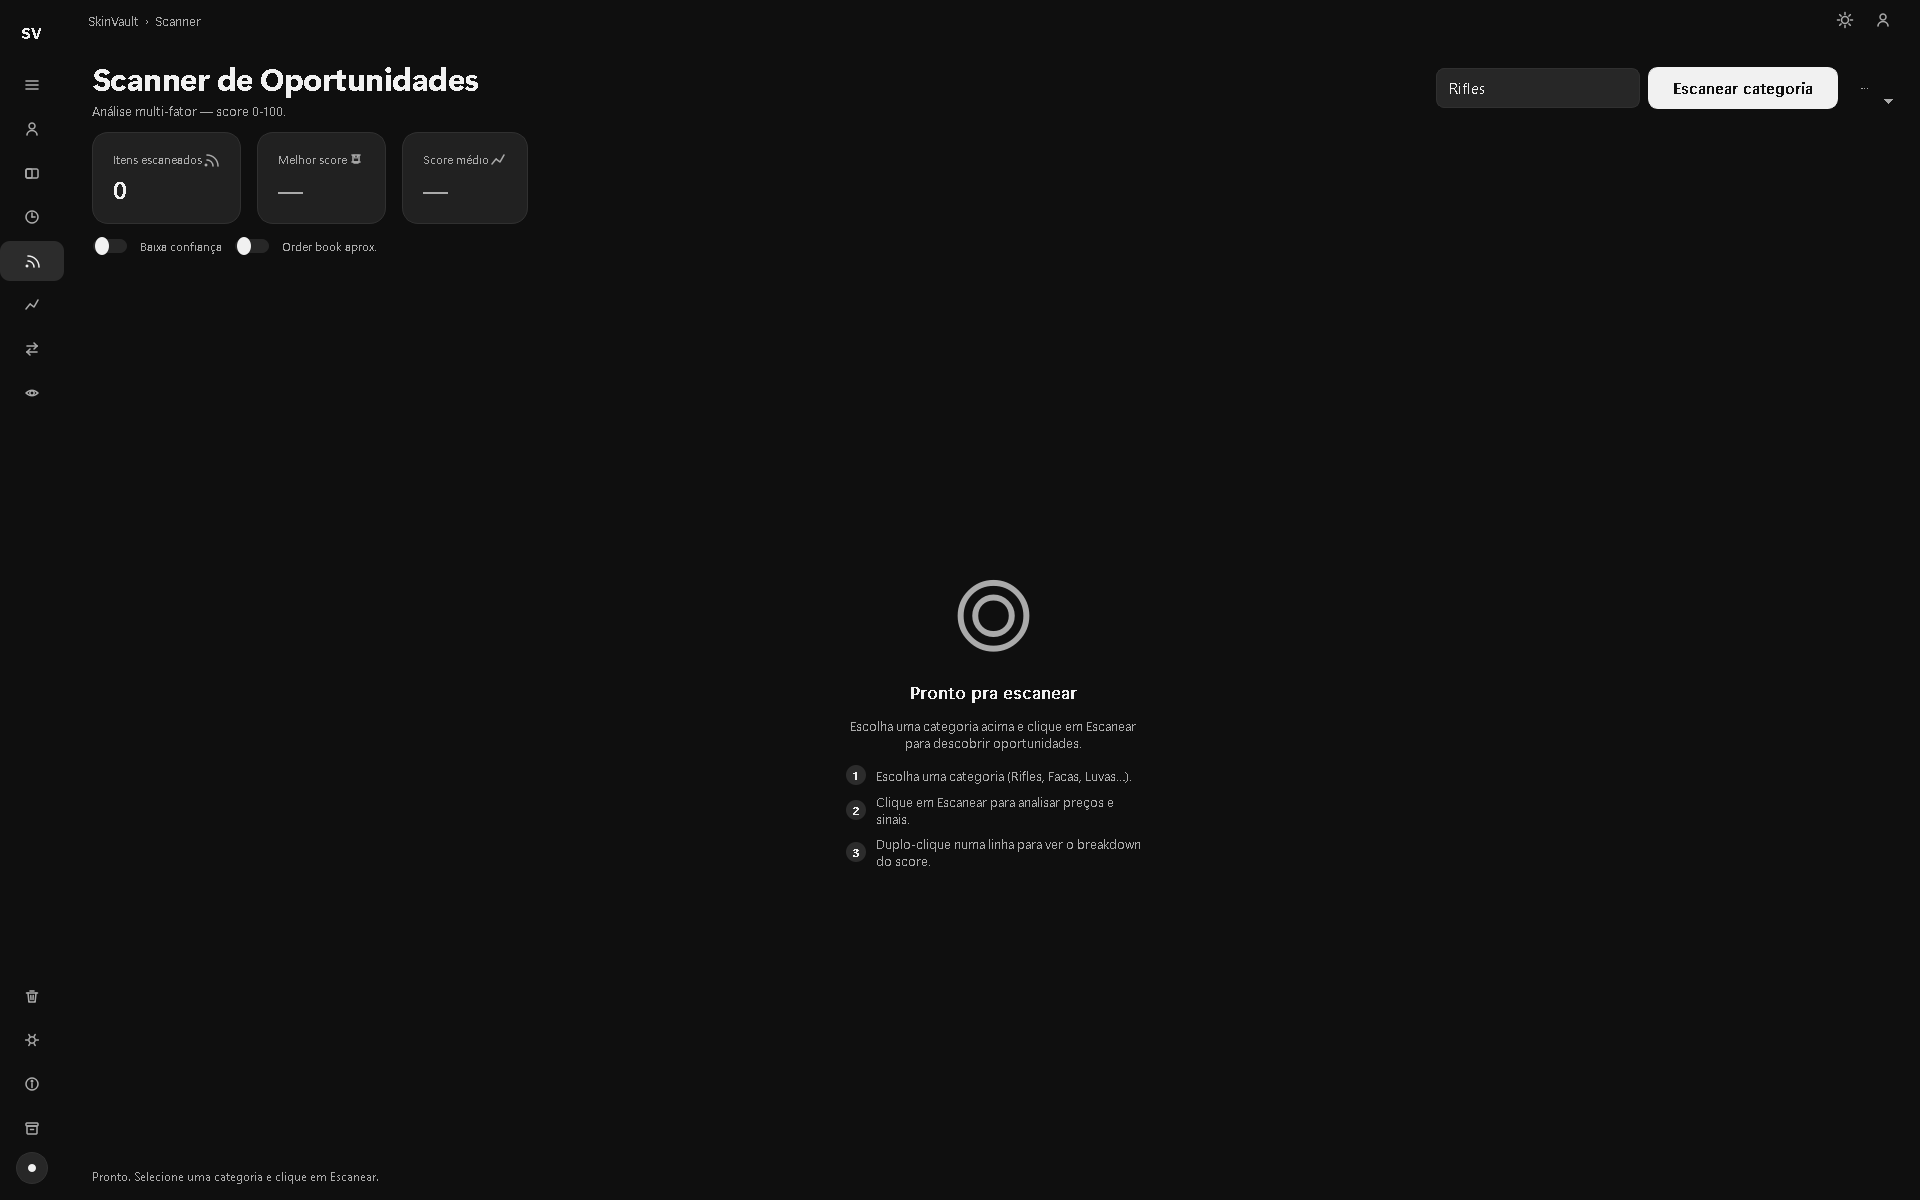
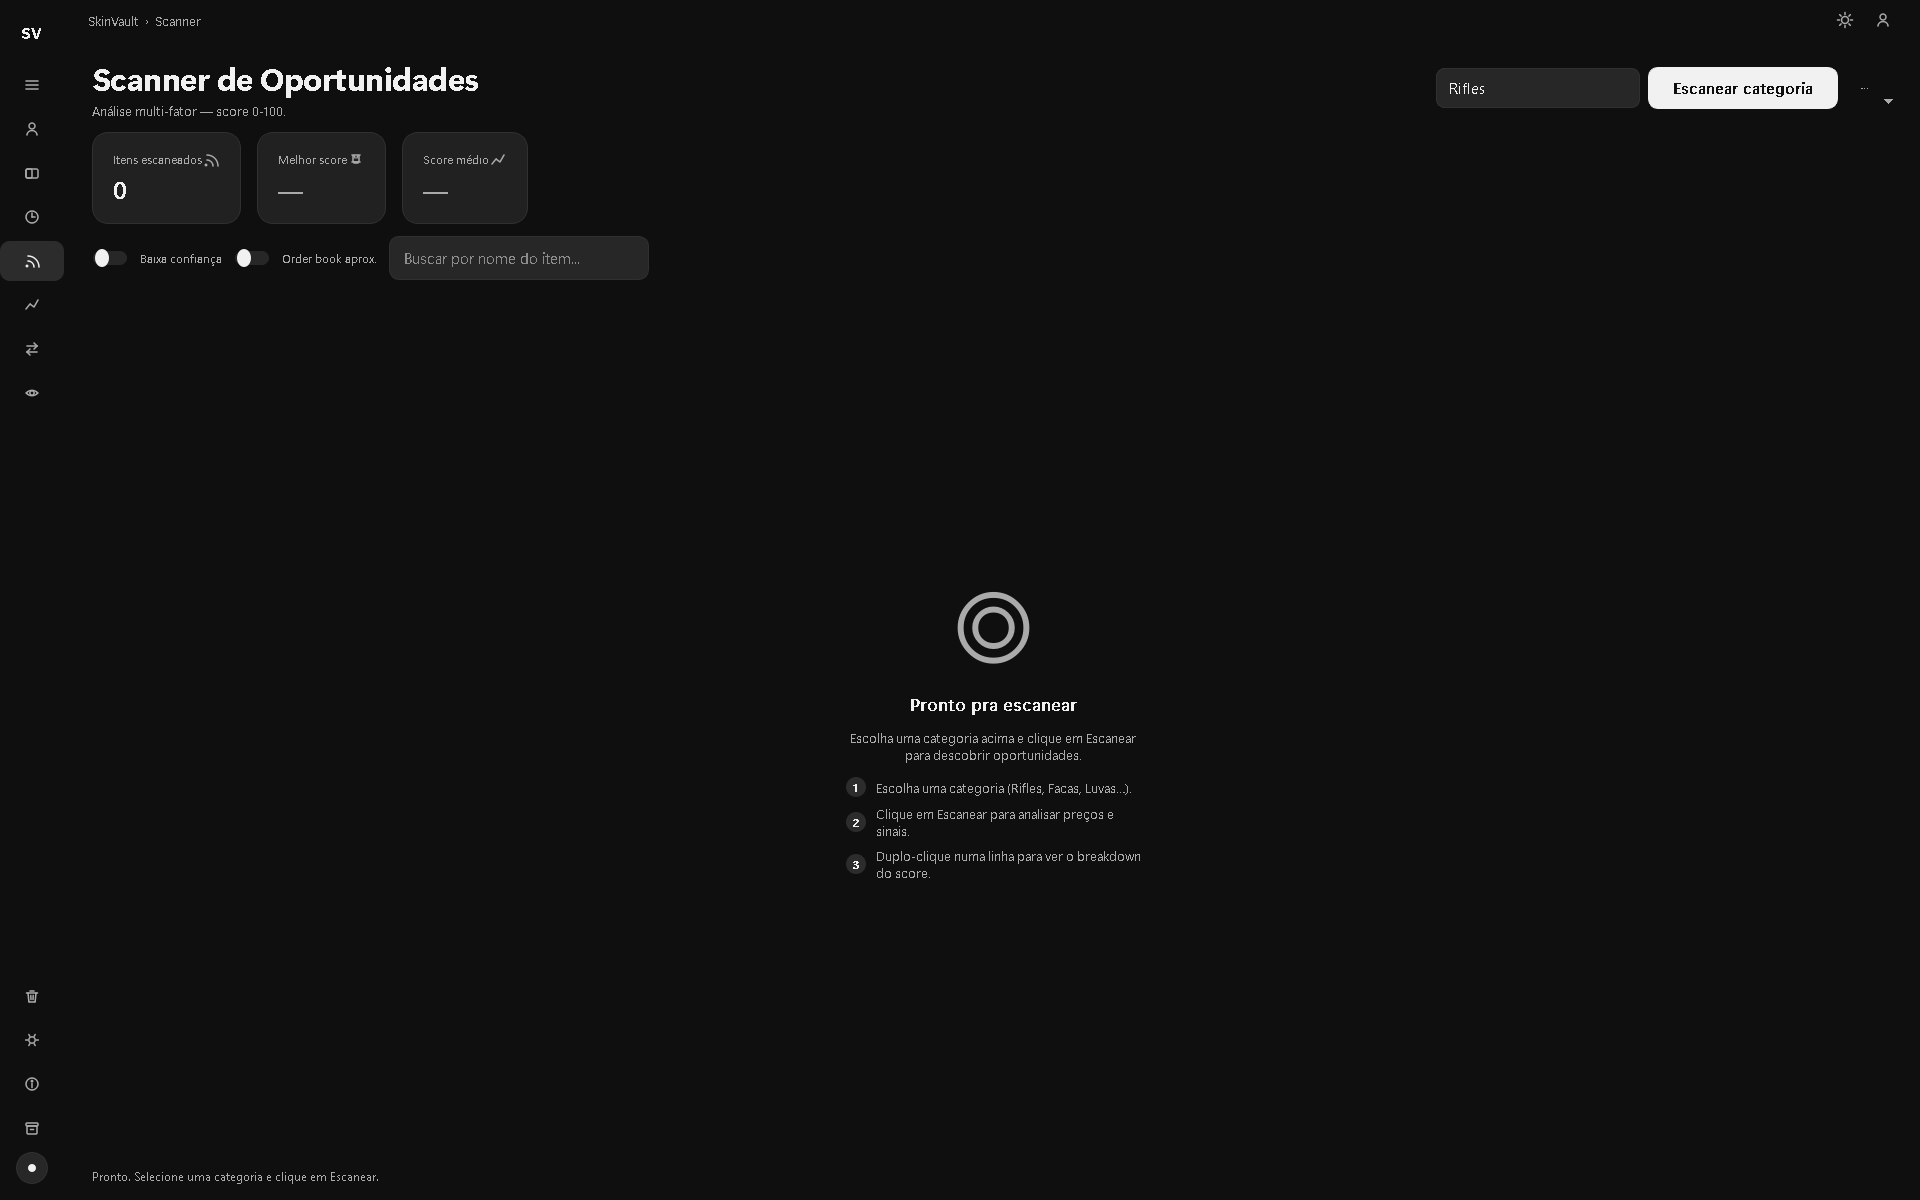
feat: busca por nome no Scanner — campo de filtro textual que compoe com os toggles
O Scanner era a unica tabela sem busca textual. O campo (Ctrl+F foca,
Esc limpa) esconde linhas pelo nome exibido (localizado) ou pelo nome
raw da Steam, e o recalc unico de visibilidade (_refresh_visibility)
compõe busca + baixa confiança + order book aprox. — antes cada filtro
rodava sozinho e setRowHidden(False) mostrava o que o vizinho tinha
escondido. Status do rodape mostra 'X de Y itens • busca ...' e volta
a base ao limpar.

2109 passed.

Changed region(s): [[0.4375, 0.4625, 0.5938, 0.74], [0.125, 0.185, 0.1562, 0.2158], [0.0312, 0.185, 0.0625, 0.2158]]

diff --git a/skinvault/ui/scanner_screen.py b/skinvault/ui/scanner_screen.py
@@ -18,6 +18,7 @@ from PyQt6.QtWidgets import (
     QHBoxLayout,
     QHeaderView,
     QLabel,
+    QLineEdit,
     QMenu,
     QPushButton,
     QTableWidget,
@@ -324,8 +325,28 @@ class ScannerScreen(QWidget):
             "Itens com order book de wear alternativo (proxy)."
         )
         filt_row.addWidget(_lbl2)
+
+        self._search_inp = QLineEdit()
+        self._search_inp.setPlaceholderText("Buscar por nome do item...")
+        self._search_inp.setClearButtonEnabled(True)
+        self._search_inp.setFixedWidth(260)
+        self._search_inp.setStyleSheet(t.input_style())
+        self._search_inp.setToolTip(
+            "Filtra a tabela pelo nome do item. Não afeta o que foi "
+            "escaneado — só esconde linhas, e as outras colunas de "
+            "filtro (baixa confiança, order book aprox.) continuam "
+            "valendo.\nCtrl+F foca o campo, Esc limpa."
+        )
+        self._search_inp.textChanged.connect(self._apply_search_filter)
+        filt_row.addWidget(self._search_inp)
         filt_row.addStretch(1)
         root.addLayout(filt_row)
+
+        # Ctrl+F / Esc: mesmo gesto das outras telas (inventário, histórico).
+        QShortcut(QKeySequence("Ctrl+F"), self).activated.connect(
+            self._focar_busca)
+        QShortcut(QKeySequence("Esc"), self).activated.connect(
+            self._limpar_busca)
 
         # Loading state (mostrado durante scan/validacao)
         self._loading = LoadingState(parent=self)
@@ -768,17 +789,78 @@ class ScannerScreen(QWidget):
                                       accent=t.POSITIVE)
             self._stat_avg.set_value(str(round(sum(scores)/len(scores))))
         n = len(self._scan_results)
-        if hidden:
-            self._status.setText(
-                f"{n} itens escaneados ({hidden} ocultos por baixa confiança)"
-            )
+        self._set_base_status(n, hidden)
+        # Busca ativa durante o repopulate: devolve a mensagem de busca.
+        self._atualizar_status_busca()
+
+    def _refresh_visibility(self) -> None:
+        """Recalcula a visibilidade de TODAS as linhas.
+
+        Antes cada filtro (baixa confiança, approx) rodava sozinho e
+        zerava o que o vizinho tinha escondido com setRowHidden(False);
+        a ordem no _populate é que segurava a composição. Com a busca
+        textual no meio, três filtros só compõem num recalc único: cada
+        filtro contribui "esconder", nenhum "mostra" sozinho.
+        """
+        if not hasattr(self, "_table"):
+            return
+        alvo = ((self._search_inp.text() or "").strip().lower()
+                if hasattr(self, "_search_inp") else "")
+        conf = (self._hide_low_conf_cb.isChecked()
+                if hasattr(self, "_hide_low_conf_cb") else False)
+        approx = (self._hide_approx_cb.isChecked()
+                  if hasattr(self, "_hide_approx_cb") else False)
+        for row in range(self._table.rowCount()):
+            cell = self._table.item(row, self.COL_NAME)
+            nome = cell.text().lower() if cell else ""
+            r = cell.data(Qt.ItemDataRole.UserRole) if cell else None
+            # A coluna mostra o nome LOCALIZADO ("Caixa Kilowatt"), mas o
+            # usuario que conhece o nome da Steam digita "Kilowatt Case".
+            # Casa com os dois: display e raw.
+            raw = (r or {}).get("name", "").lower()
+            busca = bool(alvo) and alvo not in nome and alvo not in raw
+            dq = (r or {}).get("data_quality") or {}
+            low = conf and dq.get("level", "none") in ("low", "very_low")
+            aprox = approx and bool((r or {}).get("order_book_approx"))
+            self._table.setRowHidden(row, busca or low or aprox)
+
+    def _apply_search_filter(self, _text: str) -> None:
+        self._refresh_visibility()
+        self._atualizar_status_busca()
+
+    def _set_base_status(self, n: int, hidden: int = 0) -> None:
+        """Mensagem do rodapé sem busca ativa (base pro estado limpo)."""
+        self._status_base = (
+            f"{n} itens escaneados ({hidden} ocultos por baixa confiança)"
+            if hidden else f"{n} itens escaneados")
+        self._status.setText(self._status_base)
+
+    def _atualizar_status_busca(self) -> None:
+        """Rodapé com busca ativa; volta à base quando o campo limpa."""
+        alvo = (self._search_inp.text() or "").strip()
+        if not alvo:
+            self._status.setText(getattr(self, "_status_base", ""))
+            return
+        visiveis = sum(1 for row in range(self._table.rowCount())
+                       if not self._table.isRowHidden(row))
+        self._status.setText(
+            f"{visiveis} de {len(self._scan_results)} itens • busca “{alvo}”")
+
+    def _focar_busca(self) -> None:
+        self._search_inp.setFocus()
+        self._search_inp.selectAll()
+
+    def _limpar_busca(self) -> None:
+        if self._search_inp.text():
+            self._search_inp.clear()  # textChanged cuida do resto
         else:
-            self._status.setText(f"{n} itens escaneados")
+            self._search_inp.setFocus()
 
     def _apply_confidence_filter(self) -> int:
         """Aplica/remove esconder baixa confiança. Retorna # ocultas."""
         if not hasattr(self, "_hide_low_conf_cb"):
             return 0
+        self._refresh_visibility()
         active = self._hide_low_conf_cb.isChecked()
         hidden = 0
         for row in range(self._table.rowCount()):
@@ -788,9 +870,7 @@ class ScannerScreen(QWidget):
                 continue
             dq = r.get("data_quality") or {}
             level = dq.get("level", "none")
-            should_hide = active and level in ("low", "very_low")
-            self._table.setRowHidden(row, should_hide)
-            if should_hide:
+            if active and level in ("low", "very_low"):
                 hidden += 1
         return hidden
 
@@ -802,28 +882,20 @@ class ScannerScreen(QWidget):
         s["scanner_hide_low_confidence"] = bool(checked)
         _ss(s)
         hidden = self._apply_confidence_filter()
-        n = len(self._scan_results)
-        if hidden:
-            self._status.setText(
-                f"{n} itens escaneados ({hidden} ocultos por baixa confiança)"
-            )
-        else:
-            self._status.setText(f"{n} itens escaneados")
+        self._set_base_status(len(self._scan_results), hidden)
+        self._atualizar_status_busca()
 
     def _apply_approx_filter(self) -> int:
-        """Aplica esconder order book approx. Retorna # ocultas.
-        So' esconde (nunca mostra) para nao sobrescrever conf filter."""
+        """Aplica esconder order book approx. Retorna # ocultas."""
         if not hasattr(self, "_hide_approx_cb"):
             return 0
+        self._refresh_visibility()
         active = self._hide_approx_cb.isChecked()
         hidden = 0
         for row in range(self._table.rowCount()):
             cell = self._table.item(row, self.COL_NAME)
             r = cell.data(Qt.ItemDataRole.UserRole) if cell else None
-            if not isinstance(r, dict):
-                continue
-            if active and r.get("order_book_approx"):
-                self._table.setRowHidden(row, True)
+            if isinstance(r, dict) and active and r.get("order_book_approx"):
                 hidden += 1
         return hidden
 

diff --git a/tests/test_ui_smoke.py b/tests/test_ui_smoke.py
@@ -279,6 +279,139 @@ def test_scanner_filtro_status_mostra_ocultos(monkeypatch):
     assert "1 oculto" in screen._status.text()
 
 
+def _scanner_result(name, level="high"):
+    return {"name": name, "score": 70, "price": 1, "median": 1,
+            "breakdown": [], "verdict": "X", "verdict_color": "#0f0",
+            "spread": "", "book": "", "trend": "", "sd_label": "",
+            "data_quality": {"level": level, "confidence": 0.8, "n": 120}}
+
+
+def test_scanner_busca_filtra_por_nome(monkeypatch):
+    """Busca esconde linhas cujo nome não casa (case-insensitive)."""
+    monkeypatch.setattr("skinvault.settings.load_settings",
+                        lambda: {})
+    from skinvault.prices import PriceCache
+    from skinvault.ui.scanner_screen import ScannerScreen
+    screen = ScannerScreen(PriceCache(ttl=3600))
+    screen._scan_results = [
+        _scanner_result("AK-47 | Redline"),
+        _scanner_result("AWP | Asiimov"),
+        _scanner_result("Kilowatt Case"),
+    ]
+    screen._populate()
+    screen._search_inp.setText("awp")
+    by_name = _hidden_levels_by_name(screen)
+    assert by_name["AK-47 | Redline"]["hidden"] is True
+    assert by_name["AWP | Asiimov"]["hidden"] is False
+    assert by_name["Kilowatt Case"]["hidden"] is True
+
+
+def test_scanner_busca_status_mostra_visiveis(monkeypatch):
+    """Status da busca mostra "X de Y itens • busca ..."."""
+    monkeypatch.setattr("skinvault.settings.load_settings",
+                        lambda: {})
+    from skinvault.prices import PriceCache
+    from skinvault.ui.scanner_screen import ScannerScreen
+    screen = ScannerScreen(PriceCache(ttl=3600))
+    screen._scan_results = [
+        _scanner_result("AK-47 | Redline"),
+        _scanner_result("AWP | Asiimov"),
+    ]
+    screen._populate()
+    screen._search_inp.setText("awp")
+    txt = screen._status.text()
+    assert "1 de 2 itens" in txt
+    assert "busca" in txt
+
+
+def test_scanner_busca_limpar_restaura_base(monkeypatch):
+    """Limpar a busca volta o status ao de "N itens escaneados"."""
+    monkeypatch.setattr("skinvault.settings.load_settings",
+                        lambda: {})
+    from skinvault.prices import PriceCache
+    from skinvault.ui.scanner_screen import ScannerScreen
+    screen = ScannerScreen(PriceCache(ttl=3600))
+    screen._scan_results = [_scanner_result("AK-47 | Redline"),
+                            _scanner_result("AWP | Asiimov")]
+    screen._populate()
+    screen._search_inp.setText("awp")
+    screen._search_inp.clear()
+    assert screen._status.text() == "2 itens escaneados"
+    for row in range(screen._table.rowCount()):
+        assert screen._table.isRowHidden(row) is False
+
+
+def test_scanner_busca_compoe_com_confianca(monkeypatch):
+    """Busca E baixa confiança escondem juntas (recalc único)."""
+    monkeypatch.setattr("skinvault.settings.load_settings",
+                        lambda: {})
+    monkeypatch.setattr("skinvault.settings.save_settings",
+                        lambda s: None)
+    from skinvault.prices import PriceCache
+    from skinvault.ui.scanner_screen import ScannerScreen
+    screen = ScannerScreen(PriceCache(ttl=3600))
+    screen._scan_results = [
+        _scanner_result("AK-47 | Redline", level="high"),
+        _scanner_result("AWP | Asiimov", level="low"),
+        _scanner_result("Kilowatt Case", level="high"),
+    ]
+    screen._populate()
+    screen._hide_low_conf_cb.setChecked(True)
+    screen._search_inp.setText("case")
+    by_name = _hidden_levels_by_name(screen)
+    # Low conf escondido mesmo casando a busca...
+    assert by_name["AWP | Asiimov"]["hidden"] is True
+    # Busca esconde o que não casa...
+    assert by_name["AK-47 | Redline"]["hidden"] is True
+    # Só o que passa nas DUAS fica visível.
+    assert by_name["Kilowatt Case"]["hidden"] is False
+
+
+def test_scanner_busca_casa_nome_localizado_e_raw(monkeypatch):
+    """Busca casa com o nome localizado (o que a coluna mostra) E com o
+    nome raw da Steam ("Kilowatt Case" → exibe "Caixa Kilowatt")."""
+    monkeypatch.setattr("skinvault.settings.load_settings",
+                        lambda: {})
+    from skinvault.prices import PriceCache
+    from skinvault.ui.scanner_screen import ScannerScreen
+    screen = ScannerScreen(PriceCache(ttl=3600))
+    screen._scan_results = [
+        _scanner_result("Kilowatt Case"),
+        _scanner_result("AWP | Asiimov"),
+    ]
+    screen._populate()
+    screen._search_inp.setText("caixa")
+    by_name = _hidden_levels_by_name(screen)
+    assert by_name["Kilowatt Case"]["hidden"] is False
+    assert by_name["AWP | Asiimov"]["hidden"] is True
+    screen._search_inp.setText("Kilowatt Case")
+    by_name = _hidden_levels_by_name(screen)
+    assert by_name["Kilowatt Case"]["hidden"] is False
+
+
+def test_scanner_busca_nao_vaza_pra_filtro_apos_limpar(monkeypatch):
+    """Tirar a busca devolve as linhas que o filtro de conf ainda esconde,
+    sem mostrar as que o filtro escondeu de propósito."""
+    monkeypatch.setattr("skinvault.settings.load_settings",
+                        lambda: {})
+    monkeypatch.setattr("skinvault.settings.save_settings",
+                        lambda s: None)
+    from skinvault.prices import PriceCache
+    from skinvault.ui.scanner_screen import ScannerScreen
+    screen = ScannerScreen(PriceCache(ttl=3600))
+    screen._scan_results = [
+        _scanner_result("AK-47 | Redline", level="high"),
+        _scanner_result("AWP | Asiimov", level="low"),
+    ]
+    screen._populate()
+    screen._hide_low_conf_cb.setChecked(True)
+    screen._search_inp.setText("ak")
+    screen._search_inp.clear()
+    by_name = _hidden_levels_by_name(screen)
+    assert by_name["AK-47 | Redline"]["hidden"] is False
+    assert by_name["AWP | Asiimov"]["hidden"] is True  # continua por conf
+
+
 def test_scanner_tabela_tem_coluna_conf():
     """13 colunas desde 2026-07-30, quando 'Compre até' entrou na posição 4
     (colada no 'Preço justo', de onde ela deriva) e empurrou o resto."""
